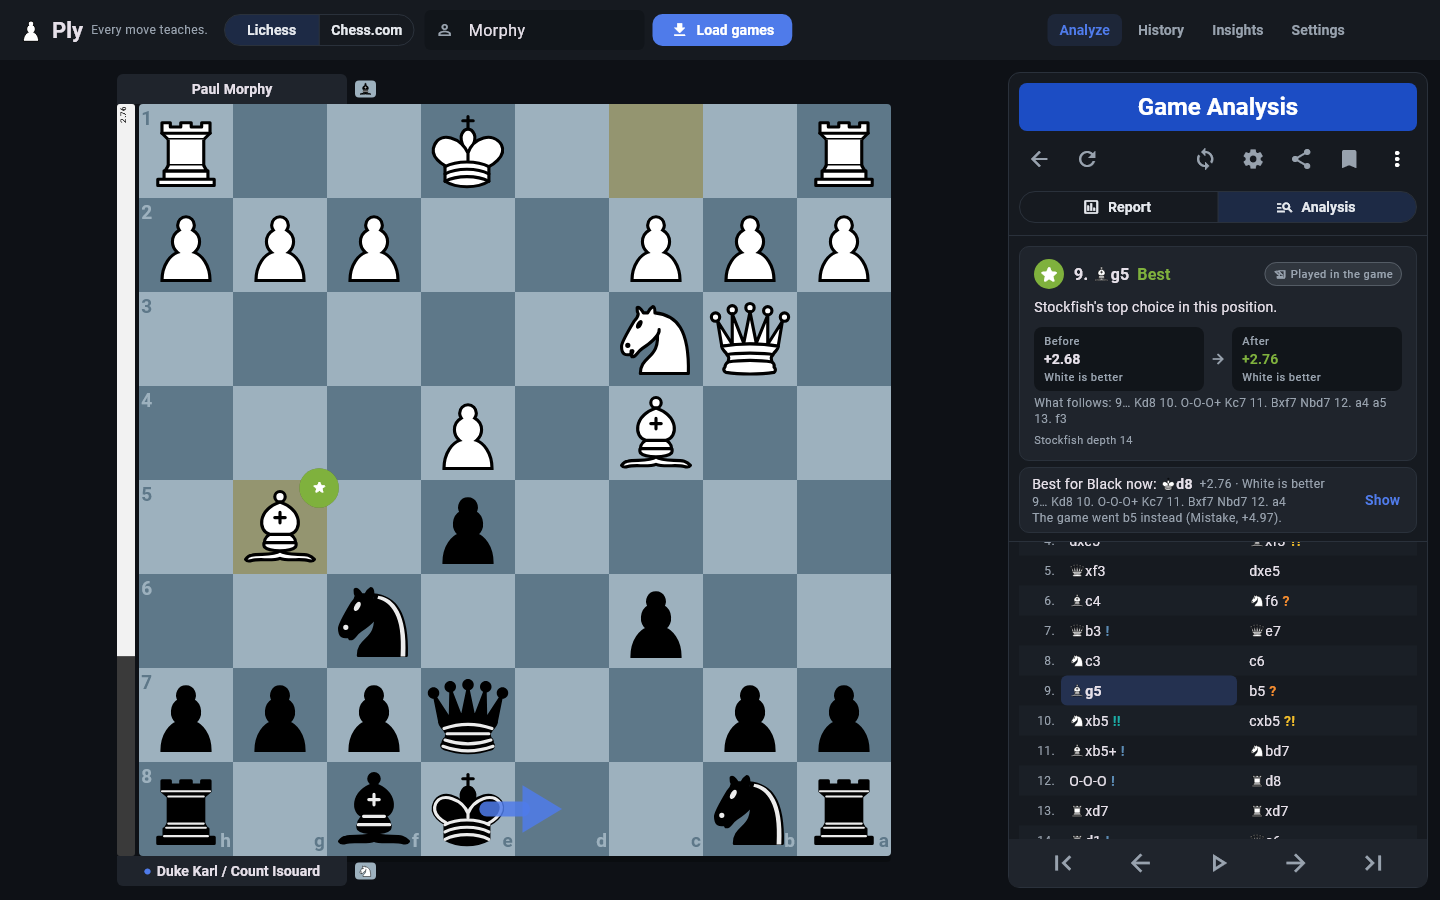
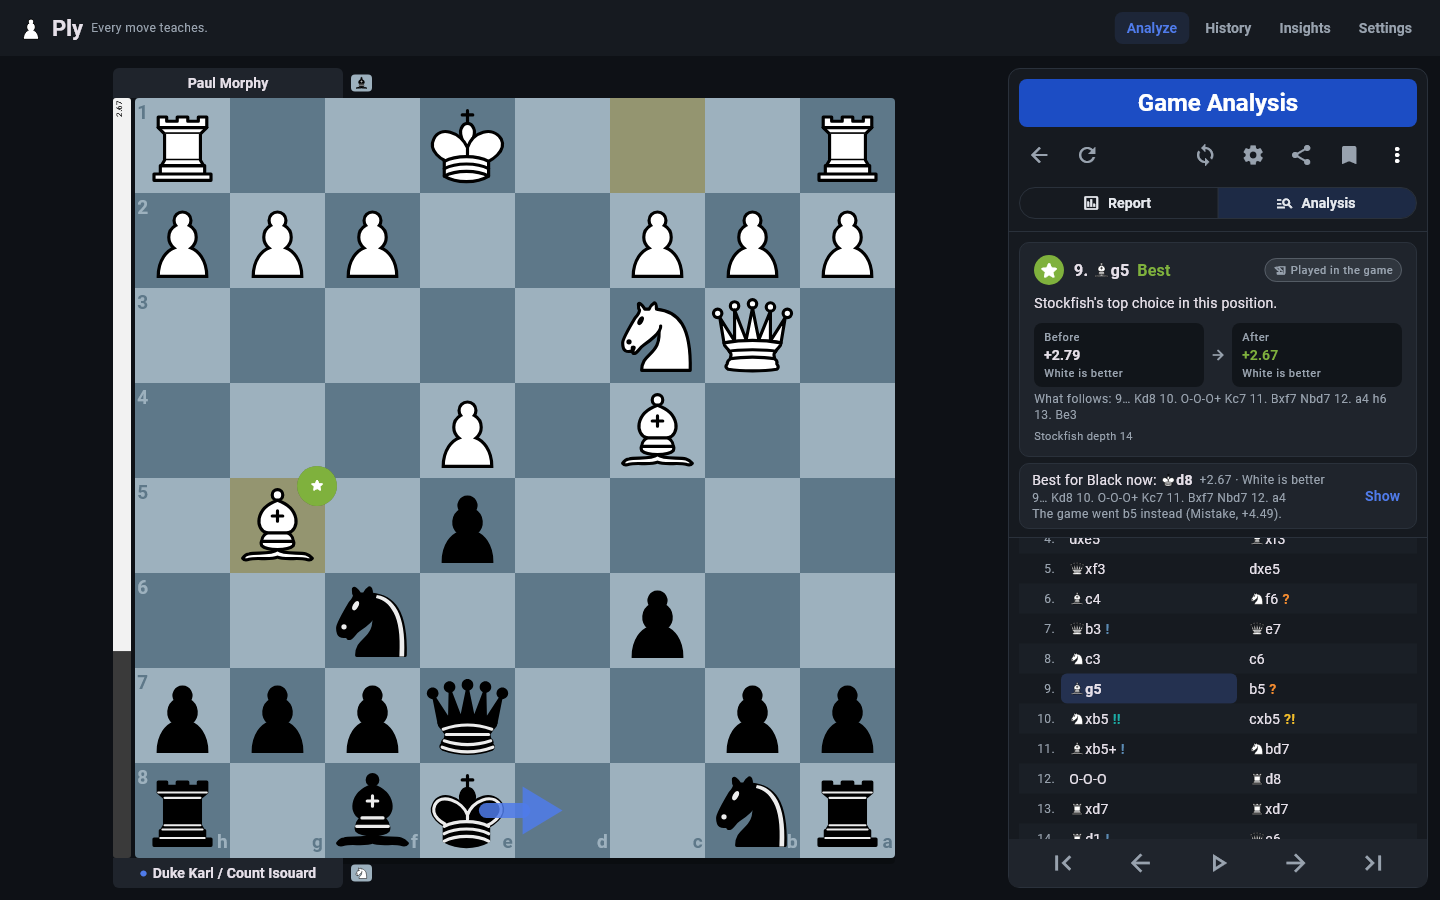
feat: load games from the Game Analysis panel
Site, username and Load games move out of the top bar into a GameLoader at the top of the panel's Your games view, above the games list (as in Ply's original design). The top bar keeps only the Ply name and the section tabs, now aligned to the right. The end-to-end test checks the loader sits in the panel, right of the board.

diff --git a/lib/ui/desktop_top_bar.dart b/lib/ui/desktop_top_bar.dart
@@ -1,169 +1,72 @@
 import 'package:dartchess/dartchess.dart' show Piece, Role, Side;
 import 'package:flutter/material.dart';
 
-import '../online/online_games.dart';
-import '../storage/settings.dart';
 import 'board/chess_board.dart';
 import 'services.dart';
 import 'theme.dart';
 
-/// Desktop header: branding, site + username to load games, section tabs.
-class DesktopTopBar extends StatefulWidget {
+/// Desktop header: branding and the section tabs. Loading games lives in
+/// the Game Analysis panel (Your games).
+class DesktopTopBar extends StatelessWidget {
   const DesktopTopBar({super.key, required this.sections});
 
   /// Section names in tab order (Analyze, History, Insights, Settings).
   final List<String> sections;
 
   @override
-  State<DesktopTopBar> createState() => _DesktopTopBarState();
-}
-
-class _DesktopTopBarState extends State<DesktopTopBar> {
-  TextEditingController? _name;
-
-  ChessSite _site(Settings s) => s.loadSource.site ?? ChessSite.lichess;
-
-  Future<void> _load() async {
-    final s = Services.of(context);
-    final name = _name?.text.trim() ?? '';
-    if (name.isEmpty) return;
-    FocusManager.instance.primaryFocus?.unfocus();
-    s.tab.value = 0;
-    await s.browser.open(_site(s.settings), name);
-  }
-
-  @override
   Widget build(BuildContext context) {
     final s = Services.of(context);
     final p = PlyPalette.of(context);
     final theme = Theme.of(context);
-    return ListenableBuilder(
-      listenable: Listenable.merge([s.settings, s.browser, s.tab]),
-      builder: (context, _) {
-        final site = _site(s.settings);
-        final known = [
-          for (final pr in s.settings.profiles)
-            if (pr.site == site) pr.username,
-        ];
-        return Container(
-          height: 60,
-          color: p.panel,
-          padding: const EdgeInsets.symmetric(horizontal: 16),
-          child: Row(
-            children: [
-              PieceImage(
-                const Piece(color: Side.white, role: Role.pawn),
-                size: 30,
+    return ValueListenableBuilder<int>(
+      valueListenable: s.tab,
+      builder: (context, tab, _) => Container(
+        height: 56,
+        color: p.panel,
+        padding: const EdgeInsets.symmetric(horizontal: 16),
+        child: Row(
+          children: [
+            PieceImage(
+              const Piece(color: Side.white, role: Role.pawn),
+              size: 30,
+            ),
+            const SizedBox(width: 6),
+            Text(
+              'Ply',
+              style: theme.textTheme.titleLarge?.copyWith(
+                fontWeight: FontWeight.w700,
               ),
-              const SizedBox(width: 6),
-              Text(
-                'Ply',
-                style: theme.textTheme.titleLarge?.copyWith(
-                  fontWeight: FontWeight.w700,
-                ),
+            ),
+            const SizedBox(width: 8),
+            // Takes the free space, so the section tabs sit at the right.
+            Expanded(
+              child: Text(
+                'Every move teaches.',
+                maxLines: 1,
+                overflow: TextOverflow.fade,
+                softWrap: false,
+                style: theme.textTheme.bodySmall?.copyWith(color: p.muted),
               ),
-              // The tagline gives way on narrow windows so all section tabs
-              // stay visible.
-              if (MediaQuery.sizeOf(context).width >= 1280) ...[
-                const SizedBox(width: 8),
-                Flexible(
-                  child: Text(
-                    'Every move teaches.',
-                    maxLines: 1,
-                    overflow: TextOverflow.fade,
-                    softWrap: false,
-                    style: theme.textTheme.bodySmall?.copyWith(color: p.muted),
+            ),
+            for (final (i, name) in sections.indexed)
+              Padding(
+                padding: const EdgeInsets.only(left: 4),
+                child: TextButton(
+                  style: TextButton.styleFrom(
+                    foregroundColor: tab == i
+                        ? theme.colorScheme.primary
+                        : p.muted,
+                    backgroundColor: tab == i
+                        ? theme.colorScheme.primary.withValues(alpha: 0.12)
+                        : null,
                   ),
-                ),
-              ],
-              const SizedBox(width: 16),
-              SegmentedButton<ChessSite>(
-                showSelectedIcon: false,
-                segments: [
-                  for (final v in ChessSite.values)
-                    ButtonSegment(value: v, label: Text(v.label)),
-                ],
-                selected: {site},
-                onSelectionChanged: (v) => s.settings.update(
-                  (x) => x.loadSource = v.first == ChessSite.lichess
-                      ? LoadSource.lichess
-                      : LoadSource.chessCom,
+                  onPressed: () => s.tab.value = i,
+                  child: Text(name),
                 ),
               ),
-              const SizedBox(width: 10),
-              SizedBox(
-                width: 220,
-                child: Autocomplete<String>(
-                  initialValue: TextEditingValue(
-                    text: s.settings.profile?.username ?? '',
-                  ),
-                  optionsBuilder: (v) => known.where(
-                    (n) => n.toLowerCase().contains(v.text.toLowerCase()),
-                  ),
-                  onSelected: (_) => _load(),
-                  fieldViewBuilder: (context, controller, focus, submit) {
-                    _name = controller;
-                    return TextField(
-                      controller: controller,
-                      focusNode: focus,
-                      autocorrect: false,
-                      textInputAction: TextInputAction.search,
-                      onSubmitted: (_) => _load(),
-                      decoration: InputDecoration(
-                        hintText: '${site.label} username',
-                        prefixIcon: const Icon(Icons.person_outline, size: 18),
-                      ),
-                    );
-                  },
-                ),
-              ),
-              const SizedBox(width: 8),
-              FilledButton.icon(
-                onPressed: s.browser.loading ? null : _load,
-                icon: s.browser.loading
-                    ? const SizedBox(
-                        width: 14,
-                        height: 14,
-                        child: CircularProgressIndicator(strokeWidth: 2),
-                      )
-                    : const Icon(Icons.download, size: 18),
-                label: const Text('Load games'),
-              ),
-              const SizedBox(width: 12),
-              // Section tabs scroll sideways rather than overflow on narrow windows.
-              Expanded(
-                flex: 3,
-                child: SingleChildScrollView(
-                  scrollDirection: Axis.horizontal,
-                  reverse: true,
-                  child: Row(
-                    children: [
-                      for (final (i, name) in widget.sections.indexed)
-                        Padding(
-                          padding: const EdgeInsets.only(left: 4),
-                          child: TextButton(
-                            style: TextButton.styleFrom(
-                              foregroundColor: s.tab.value == i
-                                  ? theme.colorScheme.primary
-                                  : p.muted,
-                              backgroundColor: s.tab.value == i
-                                  ? theme.colorScheme.primary.withValues(
-                                      alpha: 0.12,
-                                    )
-                                  : null,
-                            ),
-                            onPressed: () => s.tab.value = i,
-                            child: Text(name),
-                          ),
-                        ),
-                    ],
-                  ),
-                ),
-              ),
-            ],
-          ),
-        );
-      },
+          ],
+        ),
+      ),
     );
   }
 }

diff --git a/lib/ui/game_loader.dart b/lib/ui/game_loader.dart
@@ -1,0 +1,119 @@
+import 'package:flutter/material.dart';
+
+import '../online/online_games.dart';
+import '../storage/settings.dart';
+import 'services.dart';
+import 'theme.dart';
+
+/// Load a profile's recent games: site, username (with the usernames used
+/// before as suggestions) and the Load games button.
+class GameLoader extends StatefulWidget {
+  const GameLoader({super.key});
+
+  @override
+  State<GameLoader> createState() => _GameLoaderState();
+}
+
+class _GameLoaderState extends State<GameLoader> {
+  TextEditingController? _name;
+
+  ChessSite _site(Settings s) => s.loadSource.site ?? ChessSite.lichess;
+
+  Future<void> _load() async {
+    final s = Services.of(context);
+    final name = _name?.text.trim() ?? '';
+    if (name.isEmpty) return;
+    FocusManager.instance.primaryFocus?.unfocus();
+    await s.browser.open(_site(s.settings), name);
+  }
+
+  @override
+  Widget build(BuildContext context) {
+    final s = Services.of(context);
+    final p = PlyPalette.of(context);
+    final theme = Theme.of(context);
+    return ListenableBuilder(
+      listenable: Listenable.merge([s.settings, s.browser]),
+      builder: (context, _) {
+        final site = _site(s.settings);
+        final known = [
+          for (final pr in s.settings.profiles)
+            if (pr.site == site) pr.username,
+        ];
+        return Column(
+          crossAxisAlignment: CrossAxisAlignment.stretch,
+          children: [
+            Row(
+              children: [
+                Expanded(
+                  child: Text(
+                    'Load games from',
+                    style: theme.textTheme.bodyMedium?.copyWith(color: p.muted),
+                  ),
+                ),
+                SegmentedButton<ChessSite>(
+                  showSelectedIcon: false,
+                  segments: [
+                    for (final v in ChessSite.values)
+                      ButtonSegment(value: v, label: Text(v.label)),
+                  ],
+                  selected: {site},
+                  onSelectionChanged: (v) => s.settings.update(
+                    (x) => x.loadSource = v.first == ChessSite.lichess
+                        ? LoadSource.lichess
+                        : LoadSource.chessCom,
+                  ),
+                ),
+              ],
+            ),
+            const SizedBox(height: 8),
+            Row(
+              children: [
+                Expanded(
+                  child: Autocomplete<String>(
+                    initialValue: TextEditingValue(
+                      text: s.settings.profile?.username ?? '',
+                    ),
+                    optionsBuilder: (v) => known.where(
+                      (n) => n.toLowerCase().contains(v.text.toLowerCase()),
+                    ),
+                    onSelected: (_) => _load(),
+                    fieldViewBuilder: (context, controller, focus, submit) {
+                      _name = controller;
+                      return TextField(
+                        controller: controller,
+                        focusNode: focus,
+                        autocorrect: false,
+                        textInputAction: TextInputAction.search,
+                        onSubmitted: (_) => _load(),
+                        decoration: InputDecoration(
+                          hintText: '${site.label} username',
+                          prefixIcon: const Icon(
+                            Icons.person_outline,
+                            size: 18,
+                          ),
+                        ),
+                      );
+                    },
+                  ),
+                ),
+                const SizedBox(width: 8),
+                FilledButton.icon(
+                  onPressed: s.browser.loading ? null : _load,
+                  icon: s.browser.loading
+                      ? const SizedBox(
+                          width: 14,
+                          height: 14,
+                          child: CircularProgressIndicator(strokeWidth: 2),
+                        )
+                      : const Icon(Icons.search, size: 18),
+                  label: const Text('Load games'),
+                ),
+              ],
+            ),
+          ],
+        );
+      },
+    );
+  }
+}

diff --git a/lib/ui/analyze_desktop.dart b/lib/ui/analyze_desktop.dart
@@ -257,23 +257,12 @@ class _GamesView extends StatelessWidget {
   @override
   Widget build(BuildContext context) {
     final p = PlyPalette.of(context);
-    final theme = Theme.of(context);
     return Column(
       crossAxisAlignment: CrossAxisAlignment.stretch,
       children: [
-        Padding(
-          padding: const EdgeInsets.fromLTRB(14, 10, 14, 6),
-          child: Column(
-            crossAxisAlignment: CrossAxisAlignment.start,
-            children: [
-              Text('Your games', style: theme.textTheme.titleSmall),
-              Text(
-                'Choose the site and type a username in the bar at the top, '
-                'or open a PGN below. Click a game to analyse it.',
-                style: theme.textTheme.bodySmall?.copyWith(color: p.muted),
-              ),
-            ],
-          ),
+        const Padding(
+          padding: EdgeInsets.fromLTRB(12, 12, 12, 10),
+          child: GameLoader(),
         ),
         Divider(height: 1, color: p.border),
         const Expanded(child: OnlineGameList()),

diff --git a/test/desktop_flow_test.dart b/test/desktop_flow_test.dart
@@ -130,7 +130,15 @@ void main() {
     );
     await tester.pump();
 
-    // 1. Choose Lichess and enter the username.
+    // 1. Choose Lichess and enter the username, in the Game Analysis panel
+    // to the right of the board (not the top bar).
+    final boardRect = tester.getRect(find.byType(ChessBoard));
+    final loadRect = tester.getRect(find.text('Load games'));
+    expect(loadRect.left, greaterThan(boardRect.right));
+    expect(
+      loadRect.top,
+      greaterThan(tester.getRect(find.text('Game Analysis')).bottom),
+    );
     await tester.tap(find.text('Lichess'));
     await tester.pump();
     await tester.enterText(find.byType(TextField).first, 'Ply_Tester');

diff --git a/lib/ui/analyze_screen.dart b/lib/ui/analyze_screen.dart
@@ -16,6 +16,7 @@ import 'analysis_controller.dart';
 import 'analysis_panels.dart';
 import 'board/chess_board.dart';
 import 'board/eval_bar.dart';
+import 'game_loader.dart';
 import 'games_screen.dart' show editGameDetails;
 import 'import_export.dart';
 import 'move_text.dart';
